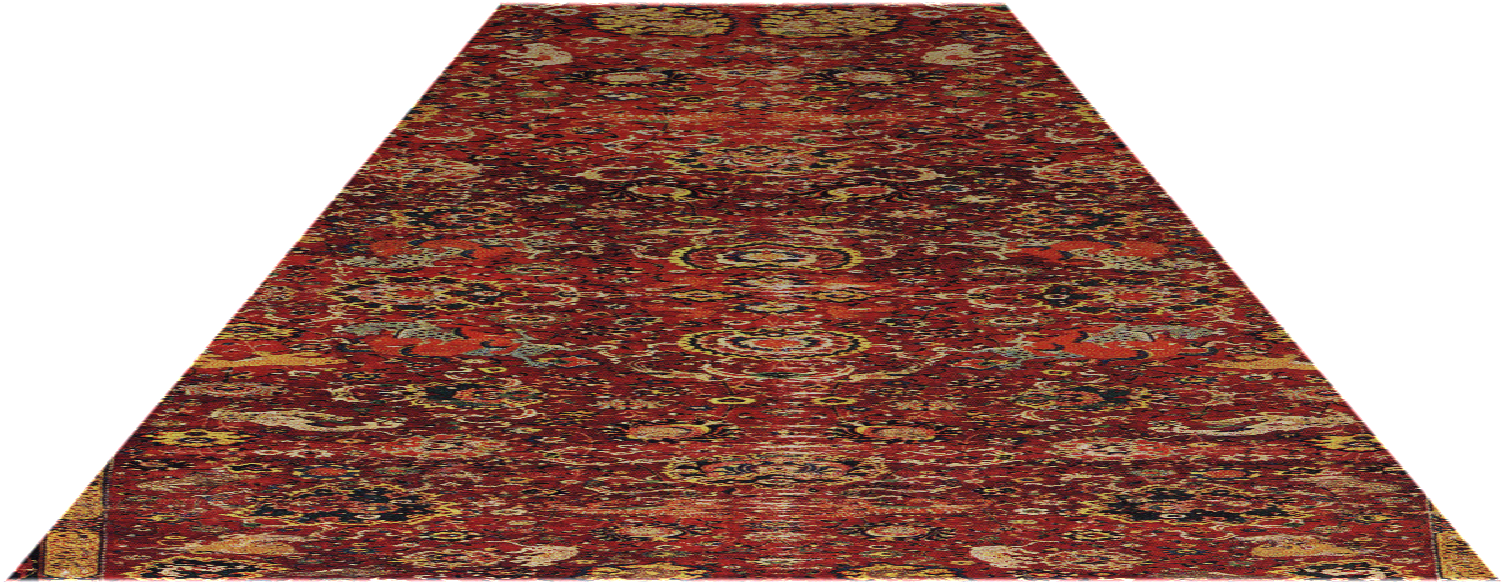
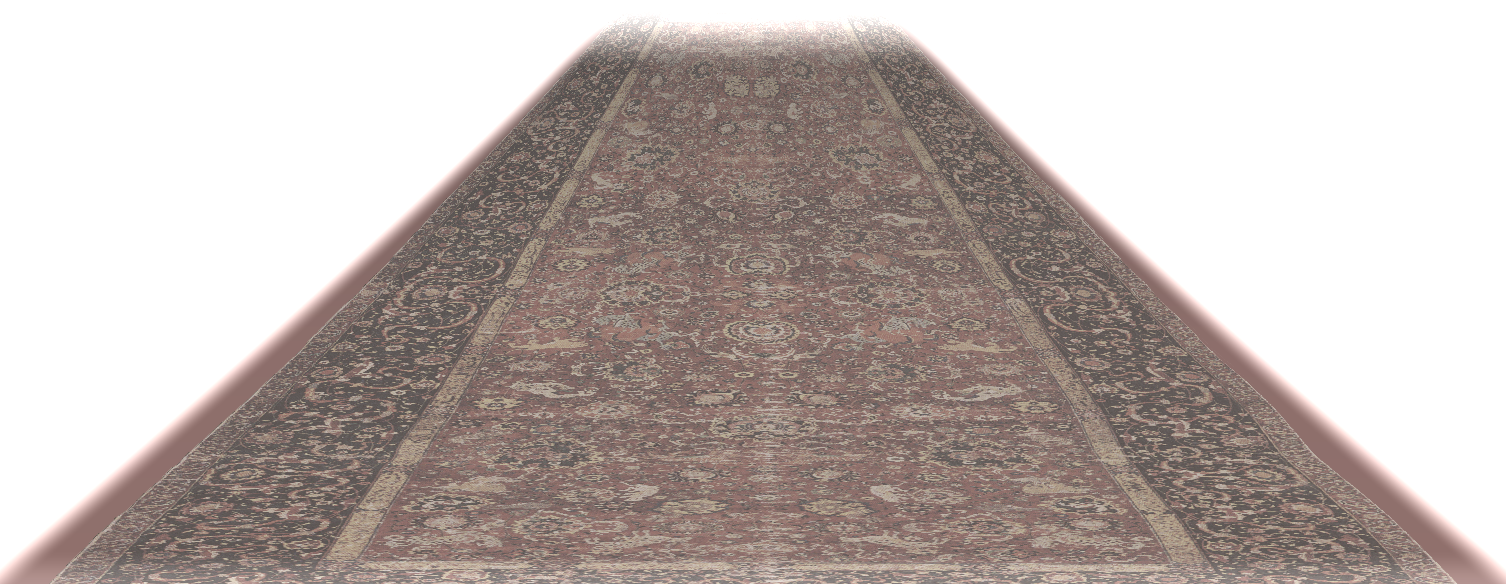
feat: refine ritual staging timing

diff --git a/unity-app/Assets/Scripts/Game/Presentation/Runtime/MouthOfTruthGameView.cs b/unity-app/Assets/Scripts/Game/Presentation/Runtime/MouthOfTruthGameView.cs
@@ -42,8 +42,12 @@ namespace MouthOfTruth.Game.Presentation.Runtime
         private const float CARD_FRONT_READ_HOLD_MINIMUM_SECONDS = 1.875f;
         private const float CARD_FRONT_READ_HOLD_MAXIMUM_SECONDS = 3.225f;
         private const float CARD_FRONT_READ_HOLD_PER_CHARACTER_SECONDS = 0.01875f;
+        private const float CARD_FRONT_FOCUS_BEFORE_NARRATION_SECONDS = 0.72f;
+        private const float CARD_FRONT_AFTER_NARRATION_HOLD_SECONDS = 0.58f;
         private const float CARD_HOVER_AUDIO_COOLDOWN_SECONDS = 0.22f;
         private const float FIRST_RUN_TUTORIAL_FALLBACK_DURATION_SECONDS = 4.0f;
+        private const float FIRST_RUN_TUTORIAL_DURATION_SCALE = 3.0f;
+        private const float HAND_INSERTION_DURATION_SECONDS = 2.85f;
         private const float INTERFACE_AUDIO_MAX_VOLUME_SCALE = 0.74f;
         private const float INTERFACE_AUDIO_OVERLAP_DUCK_SCALE = 0.72f;
         private const int POINTER_CURSOR_TEXTURE_SIZE = 64;
@@ -410,6 +414,14 @@ namespace MouthOfTruth.Game.Presentation.Runtime
                     selectedCardView.SetScale(Mathf.Lerp(1.22f, 1.26f, easedProgress));
                 });
 
+            await animateOverTimeAsync(
+                CARD_FRONT_FOCUS_BEFORE_NARRATION_SECONDS,
+                progress =>
+                {
+                    float pulse = Mathf.Sin(progress * Mathf.PI) * 0.006f;
+                    selectedCardView.SetScale(1.26f + pulse);
+                });
+
             Task questionNarrationTask = questionNarrationTaskFactory?.Invoke() ?? Task.CompletedTask;
             float cardFrontReadHoldDurationSeconds = getCardFrontReadHoldDurationSeconds(questionDefinition.Text);
             float elapsedFrontReadHoldSeconds = 0.0f;
@@ -425,6 +437,13 @@ namespace MouthOfTruth.Game.Presentation.Runtime
             }
 
             await questionNarrationTask;
+            await animateOverTimeAsync(
+                CARD_FRONT_AFTER_NARRATION_HOLD_SECONDS,
+                progress =>
+                {
+                    float pulse = Mathf.Sin(progress * Mathf.PI) * 0.008f;
+                    selectedCardView.SetScale(1.26f + pulse);
+                });
 
             prepareCardLaunchPresentation();
             Vector2 launchStartPosition = selectedCardView.RectTransform.anchoredPosition;
@@ -455,13 +474,25 @@ namespace MouthOfTruth.Game.Presentation.Runtime
 
         public async Task PlayFirstRunTutorialAsync()
         {
-            float tutorialDurationSeconds = getFirstRunTutorialDurationSeconds();
+            float tutorialDurationSeconds = getFirstRunTutorialDurationSeconds() * FIRST_RUN_TUTORIAL_DURATION_SCALE;
+            configureExitButtonAsTopLeftIcon();
             setObjectActive(mTutorialOverlayImage, true);
             setObjectActive(mTutorialDevicePanelImage, true);
             setObjectActive(mTutorialHandImage, true);
             setObjectActive(mTutorialTitleText, true);
             setObjectActive(mTutorialBodyText, true);
             setObjectActive(mTutorialStepText, true);
+            setObjectActive(mStartButton, false);
+            setObjectActive(mTryAgainButton, false);
+            setObjectActive(mBackToTitleButton, false);
+            setObjectActive(mExitButton, true);
+            mTutorialOverlayImage.transform.SetAsLastSibling();
+            mTutorialDevicePanelImage.transform.SetAsLastSibling();
+            mTutorialHandImage.transform.SetAsLastSibling();
+            mTutorialTitleText.transform.SetAsLastSibling();
+            mTutorialBodyText.transform.SetAsLastSibling();
+            mTutorialStepText.transform.SetAsLastSibling();
+            mExitButton.transform.SetAsLastSibling();
             setText(mTutorialTitleText, "손을 장치 위에서 천천히 움직여 주세요");
             setText(mTutorialBodyText, "손끝 방향으로 버튼과 카드를 가리키고, 같은 위치에 잠시 머물면 선택됩니다.");
             RectTransform handRectTransform = mTutorialHandImage.rectTransform;
@@ -482,7 +513,7 @@ namespace MouthOfTruth.Game.Presentation.Runtime
                         0.0f,
                         0.0f,
                         0.0f,
-                        Mathf.Lerp(0.74f, 0.88f, easeInOut(progress)));
+                        1.0f);
                     setText(mTutorialStepText, progress < 0.48f
                         ? "1. 손을 Leap Motion 위에 자연스럽게 올립니다."
                         : "2. 왼쪽, 가운데, 오른쪽 방향을 천천히 가리킵니다.");
@@ -536,28 +567,29 @@ namespace MouthOfTruth.Game.Presentation.Runtime
             applyAnswerStageLayout();
             setObjectActive(mHandImage, false);
             setObjectActive(mRitualHandImage, true);
+            mRitualHandImage.transform.SetSiblingIndex(mMouthImage.transform.GetSiblingIndex());
             playInterfaceCue(mHandInsertClip, 0.68f);
             Vector2 startPosition = getHandFrontPosition() + new Vector2(0.0f, -270.0f);
-            Vector2 frontPosition = getHandFrontPosition() + new Vector2(0.0f, -58.0f);
-            Vector2 innerPosition = getHandInnerPosition() + new Vector2(0.0f, -4.0f);
+            Vector2 frontPosition = getHandFrontPosition() + new Vector2(0.0f, -42.0f);
+            Vector2 innerPosition = getHandInnerPosition() + new Vector2(0.0f, -18.0f);
 
             await animateOverTimeAsync(
-                1.65f,
+                HAND_INSERTION_DURATION_SECONDS,
                 progress =>
                 {
                     float easedProgress = easeInOut(progress);
-                    float approachProgress = Mathf.Clamp01(easedProgress / 0.55f);
-                    float insertionProgress = Mathf.Clamp01((easedProgress - 0.48f) / 0.52f);
-                    Vector2 handPosition = easedProgress < 0.55f
+                    float approachProgress = Mathf.Clamp01(easedProgress / 0.46f);
+                    float insertionProgress = Mathf.Clamp01((easedProgress - 0.40f) / 0.60f);
+                    Vector2 handPosition = easedProgress < 0.46f
                         ? Vector2.Lerp(startPosition, frontPosition, easeOut(approachProgress))
                         : Vector2.Lerp(frontPosition, innerPosition, easeInOut(insertionProgress));
-                    float handAlpha = easedProgress < 0.86f
+                    float handAlpha = easedProgress < 0.82f
                         ? Mathf.Lerp(0.0f, 1.0f, easeOut(Mathf.Clamp01(easedProgress / 0.30f)))
-                        : Mathf.Lerp(1.0f, 0.12f, Mathf.Clamp01((easedProgress - 0.86f) / 0.14f));
-                    float arc = Mathf.Sin(easedProgress * Mathf.PI) * 16.0f;
-                    float handScale = easedProgress < 0.62f
-                        ? Mathf.Lerp(0.70f, 1.10f, easeOut(easedProgress / 0.62f))
-                        : Mathf.Lerp(1.10f, 0.36f, easeInOut((easedProgress - 0.62f) / 0.38f));
+                        : Mathf.Lerp(1.0f, 0.54f, Mathf.Clamp01((easedProgress - 0.82f) / 0.18f));
+                    float arc = Mathf.Sin(easedProgress * Mathf.PI) * 9.0f;
+                    float handScale = easedProgress < 0.50f
+                        ? Mathf.Lerp(0.72f, 1.08f, easeOut(easedProgress / 0.50f))
+                        : Mathf.Lerp(1.08f, 0.86f, easeInOut((easedProgress - 0.50f) / 0.50f));
                     float mouthPulse = Mathf.Sin(easedProgress * Mathf.PI);
                     float mouthPull = Mathf.Clamp01((easedProgress - 0.50f) / 0.50f);
 
@@ -566,10 +598,24 @@ namespace MouthOfTruth.Game.Presentation.Runtime
                         RITUAL_HAND_SIZE_PIXELS,
                         handAlpha,
                         handScale,
-                        Mathf.Lerp(-7.0f, 3.5f, easedProgress));
+                        Mathf.Lerp(-5.0f, 2.0f, easedProgress));
                     setOverlayAlpha(Mathf.Lerp(0.30f, 0.48f, mouthPulse));
                     mMouthImage.rectTransform.localScale =
                         Vector3.one * (1.0f + (mouthPulse * 0.08f) + (mouthPull * 0.035f));
+                });
+
+            await animateOverTimeAsync(
+                0.36f,
+                progress =>
+                {
+                    float easedProgress = easeIn(progress);
+                    setRitualHandVisual(
+                        innerPosition + new Vector2(0.0f, Mathf.Lerp(0.0f, 32.0f, easedProgress)),
+                        RITUAL_HAND_SIZE_PIXELS,
+                        Mathf.Lerp(0.54f, 0.0f, easedProgress),
+                        Mathf.Lerp(0.86f, 0.76f, easedProgress),
+                        Mathf.Lerp(2.0f, 0.0f, easedProgress));
+                    setOverlayAlpha(Mathf.Lerp(0.48f, 0.28f, easedProgress));
                 });
 
             setObjectActive(mRitualHandImage, false);
@@ -1304,7 +1350,7 @@ namespace MouthOfTruth.Game.Presentation.Runtime
             mTutorialHandImage.sprite = mRitualHandSprite;
             mTutorialHandImage.preserveAspect = true;
             mTutorialHandImage.raycastTarget = false;
-            mTutorialOverlayImage.raycastTarget = true;
+            mTutorialOverlayImage.raycastTarget = false;
             mTutorialDevicePanelImage.type = Image.Type.Sliced;
             mTutorialDevicePanelImage.raycastTarget = false;
             mVerdictImage.preserveAspect = true;
@@ -1709,9 +1755,9 @@ namespace MouthOfTruth.Game.Presentation.Runtime
                 mCanvasRootTransform,
                 new Vector2(0.5f, 0.0f),
                 new Vector2(0.5f, 0.0f),
-                new Vector2(0.0f, 220.0f),
-                new Vector2(950.0f, 420.0f),
-                Color.white);
+                new Vector2(0.0f, 218.0f),
+                new Vector2(1010.0f, 430.0f),
+                new Color(0.62f, 0.56f, 0.52f, 0.84f));
             mTitleVignetteImage = createFullScreenImage(
                 "TitleVignette",
                 mCanvasRootTransform,
@@ -1890,7 +1936,7 @@ namespace MouthOfTruth.Game.Presentation.Runtime
                 new Vector2(0.5f, 0.46f),
                 Vector2.zero,
                 new Vector2(900.0f, 520.0f),
-                new Color(0.10f, 0.08f, 0.06f, 0.88f));
+                new Color(0.10f, 0.08f, 0.06f, 0.96f));
             mTutorialHandImage = createImage(
                 "FirstRunTutorialHand",
                 mCanvasRootTransform,
@@ -2476,6 +2522,12 @@ namespace MouthOfTruth.Game.Presentation.Runtime
             return 1.0f - (inverse * inverse * inverse);
         }
 
+        private float easeIn(float progress)
+        {
+            float clampedProgress = Mathf.Clamp01(progress);
+            return clampedProgress * clampedProgress * clampedProgress;
+        }
+
         private float easeInOut(float progress)
         {
             float clampedProgress = Mathf.Clamp01(progress);
@@ -2501,7 +2553,7 @@ namespace MouthOfTruth.Game.Presentation.Runtime
             ritualHandRectTransform.sizeDelta = sizeDelta;
             ritualHandRectTransform.localRotation = Quaternion.Euler(0.0f, 0.0f, rotationDegrees);
             ritualHandRectTransform.localScale = Vector3.one * Mathf.Max(0.0f, scale);
-            mRitualHandImage.color = new Color(1.0f, 0.97f, 0.91f, Mathf.Clamp01(alpha));
+            mRitualHandImage.color = new Color(1.0f, 1.0f, 1.0f, Mathf.Clamp01(alpha));
         }
 
         private void setHandVisual(float insertionProgress)

diff --git a/unity-app/Assets/Scripts/Game/App/MouthOfTruthAppController.cs b/unity-app/Assets/Scripts/Game/App/MouthOfTruthAppController.cs
@@ -14,6 +14,9 @@ using MouthOfTruth.Game.Presentation.Runtime;
 using MouthOfTruth.Game.Session;
 using MouthOfTruth.Game.Voice;
 using UnityEngine;
+#if ENABLE_INPUT_SYSTEM
+using UnityEngine.InputSystem;
+#endif
 
 namespace MouthOfTruth.Game.App
 {
@@ -23,7 +26,7 @@ namespace MouthOfTruth.Game.App
         private const float CARD_SELECTION_DWELL_SECONDS = 2.1f;
         private const float UI_ACTION_DWELL_SECONDS = 1.05f;
         private const float POINTER_REACQUIRE_GUARD_SECONDS = 0.45f;
-        private const float POST_CARD_SELECTION_POINTER_SETTLE_SECONDS = 0.65f;
+        private const float POST_CARD_SELECTION_POINTER_SETTLE_SECONDS = 2.2f;
         private const string PRESENTATION_CAPTURE_ENVIRONMENT_VARIABLE_NAME = "MOUTH_OF_TRUTH_PRESENTATION_CAPTURE";
         private const string PRESENTATION_CAPTURE_OUTPUT_DIRECTORY_ENVIRONMENT_VARIABLE_NAME = "MOUTH_OF_TRUTH_CAPTURE_OUTPUT_DIR";
 
@@ -81,6 +84,12 @@ namespace MouthOfTruth.Game.App
             Vector2? presentedPointerScreenPosition = getPresentedPointerScreenPosition(pointerScreenPosition);
             updatePointerPresentation(presentedPointerScreenPosition);
 
+            if (mGameView.ConsumeExitRequested())
+            {
+                requestApplicationExit();
+                return;
+            }
+
             if (mIsTransitionBusy || mIsPresentationCaptureRunning)
             {
                 return;
@@ -104,12 +113,6 @@ namespace MouthOfTruth.Game.App
             if (mGameView.ConsumeTryAgainRequested())
             {
                 _ = restartGameAsync();
-                return;
-            }
-
-            if (mGameView.ConsumeExitRequested())
-            {
-                requestApplicationExit();
                 return;
             }
 
@@ -619,15 +622,33 @@ namespace MouthOfTruth.Game.App
             mPointerPresentationOverrideRemainingSeconds = Mathf.Max(
                 0.0f,
                 mPointerPresentationOverrideRemainingSeconds - Time.deltaTime);
-            return new Vector2(Screen.width * 0.5f, Screen.height * 0.08f);
+            return getBottomCenterPointerScreenPosition();
         }
 
         private void beginBottomCenterPointerSettle()
         {
             mPointerPresentationOverrideRemainingSeconds = POST_CARD_SELECTION_POINTER_SETTLE_SECONDS;
+            warpSystemPointerToBottomCenter();
             mWasPointerAvailableLastFrame = false;
             mPointerReacquireGuardRemainingSeconds = 0.0f;
             resetPointerActivationDwellState();
+        }
+
+        private static Vector2 getBottomCenterPointerScreenPosition()
+        {
+            return new Vector2(Screen.width * 0.5f, Screen.height * 0.08f);
+        }
+
+        private static void warpSystemPointerToBottomCenter()
+        {
+#if ENABLE_INPUT_SYSTEM
+            Mouse currentMouse = Mouse.current;
+
+            if (currentMouse != null)
+            {
+                currentMouse.WarpCursorPosition(getBottomCenterPointerScreenPosition());
+            }
+#endif
         }
 
         private IQuestionNarrationService createNarrationService()

diff --git a/unity-app/Assets/Editor/BuildMainSceneEditor.cs b/unity-app/Assets/Editor/BuildMainSceneEditor.cs
@@ -486,7 +486,7 @@ namespace MouthOfTruth.Editor
 
             if (material.HasProperty("_BaseColor"))
             {
-                material.SetColor("_BaseColor", new Color(0.78f, 0.72f, 0.72f, 1.0f));
+                material.SetColor("_BaseColor", new Color(0.58f, 0.50f, 0.46f, 0.86f));
             }
 
             if (material.HasProperty("_Color"))
